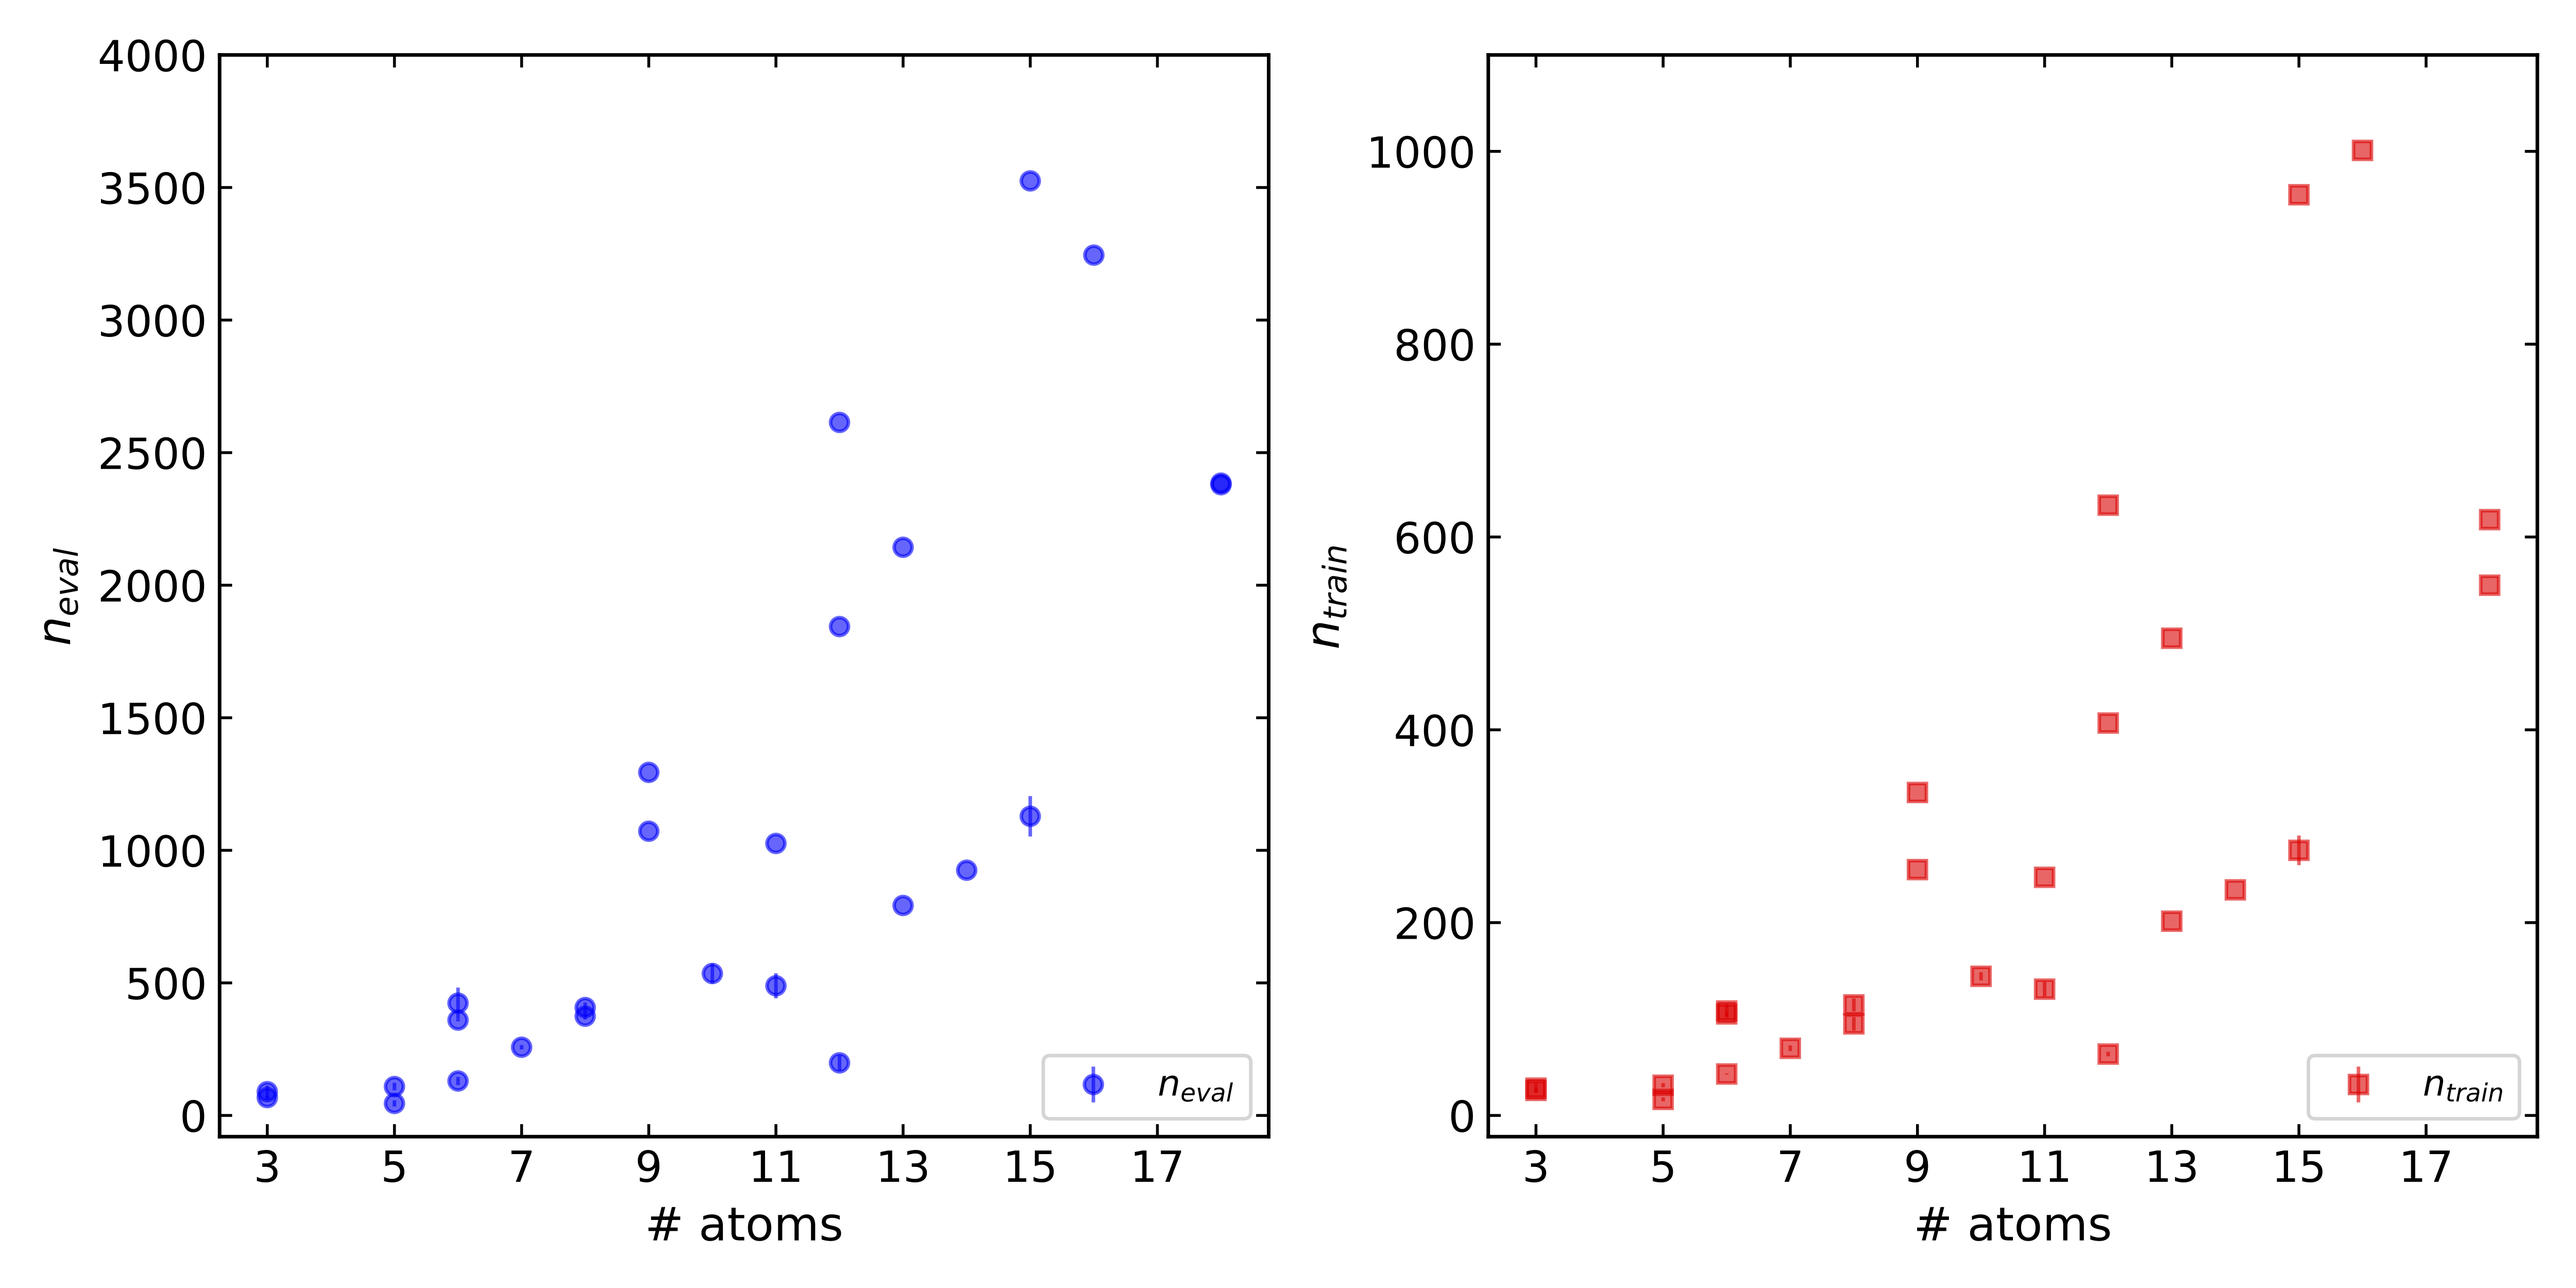
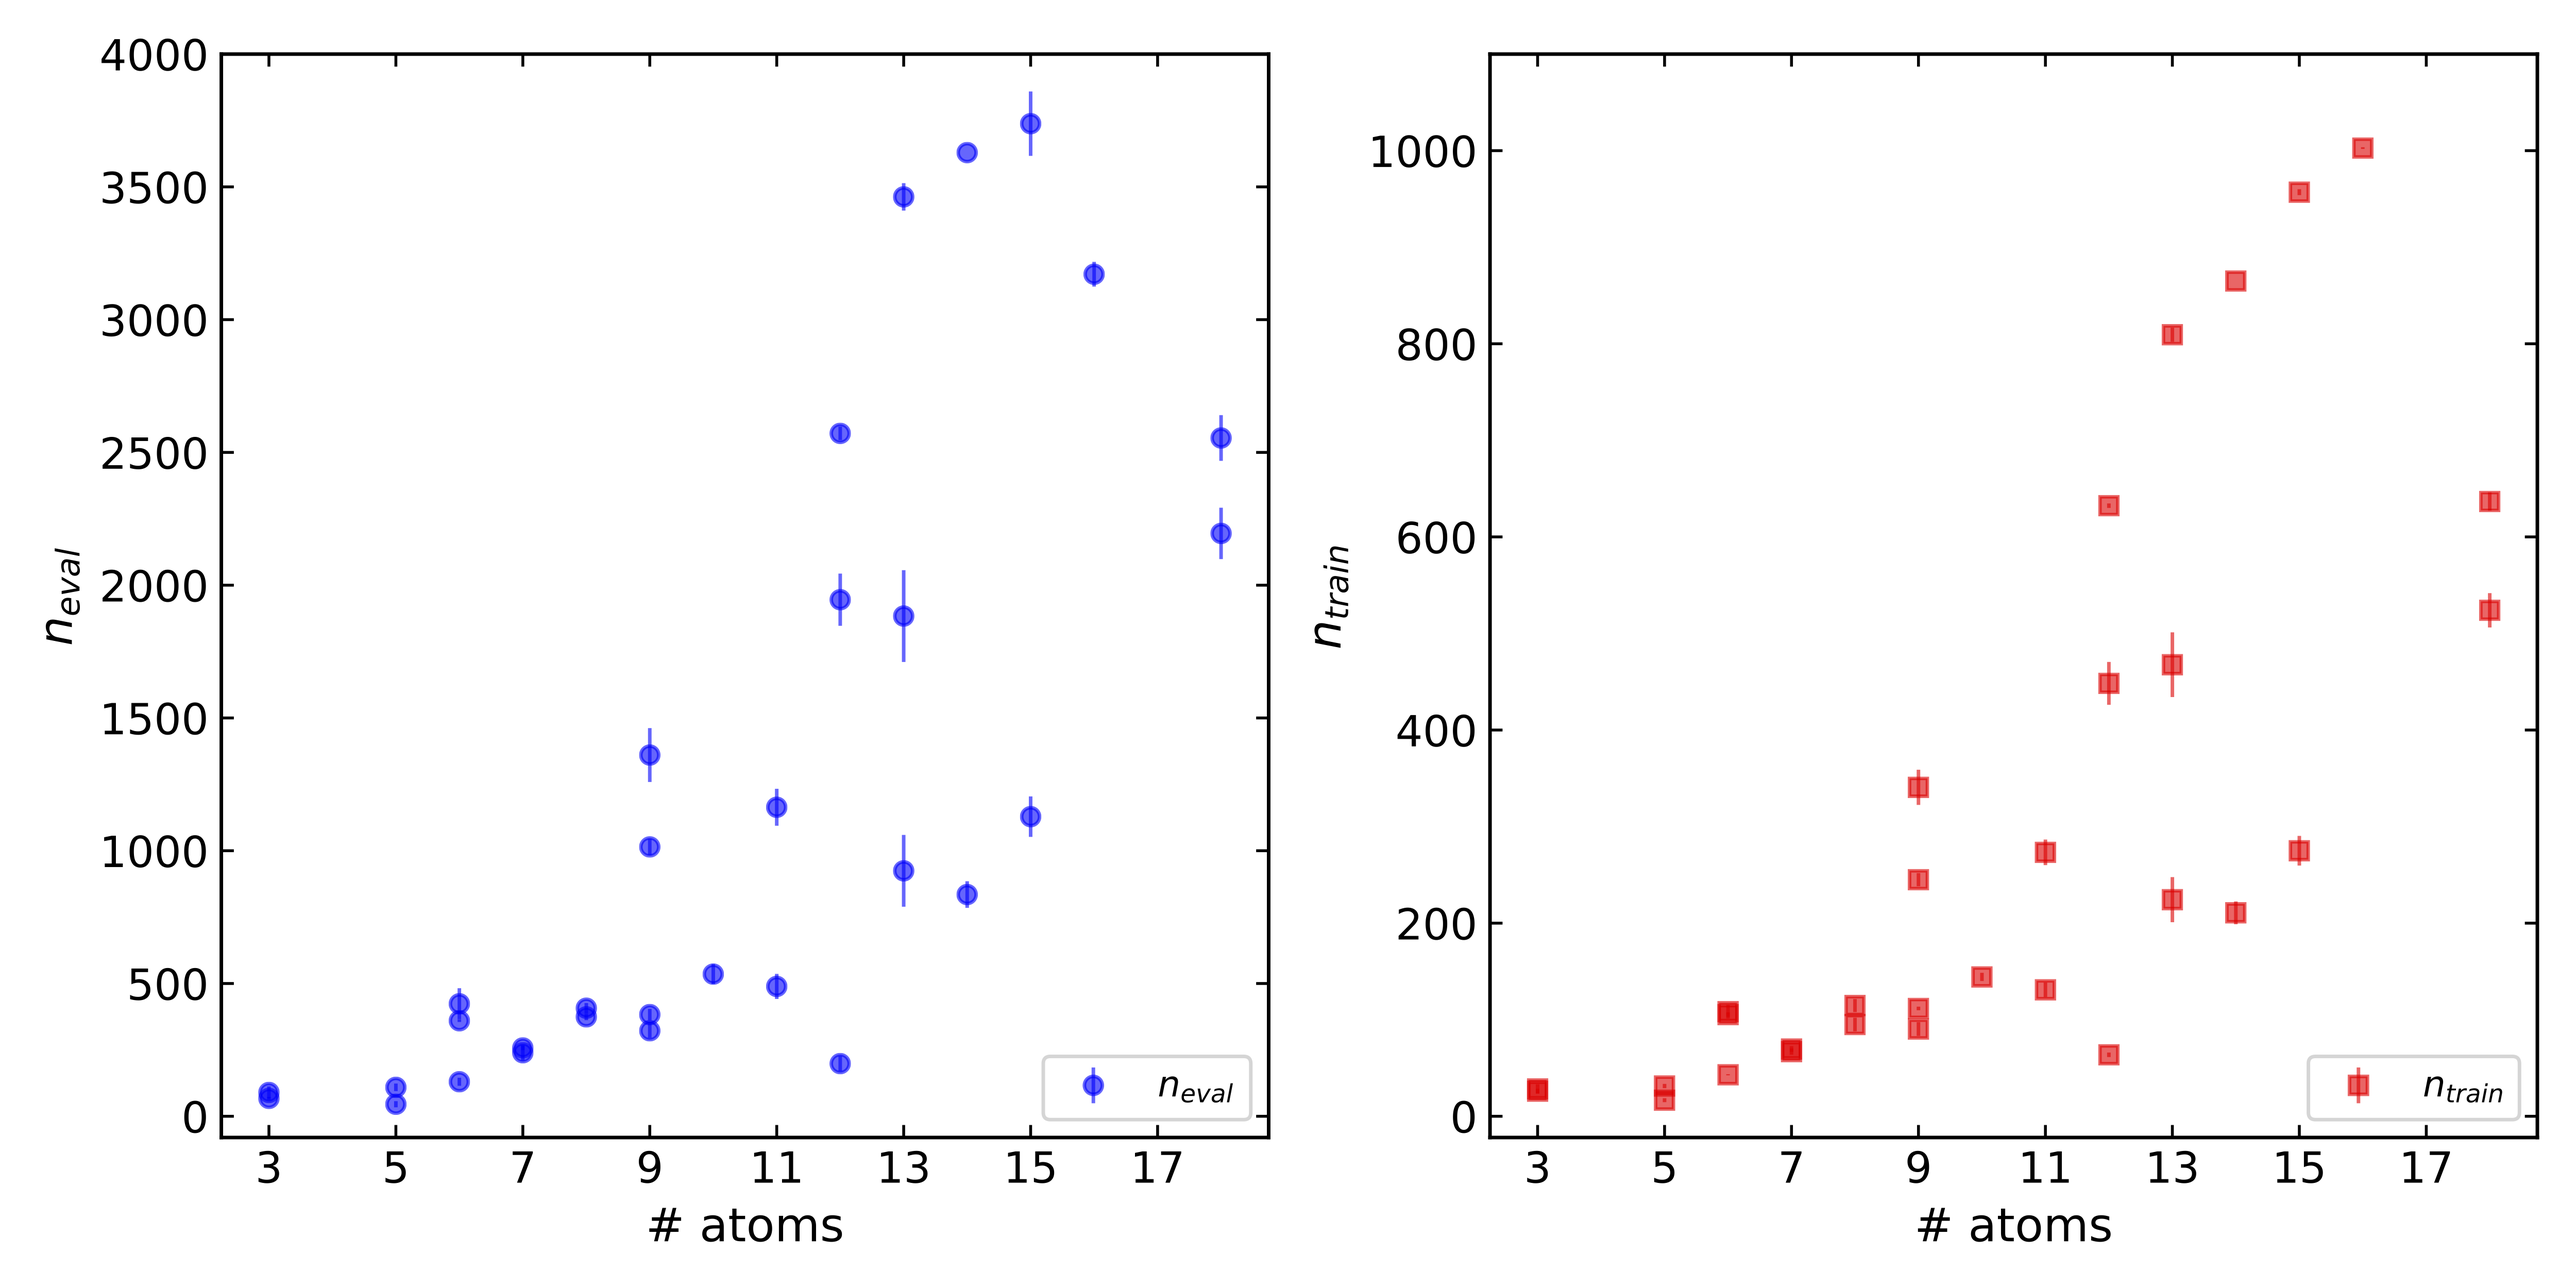
More data

diff --git a/examples/additional_examples/scalling/solvents/plot_solvent_scaling.py b/examples/additional_examples/scalling/solvents/plot_solvent_scaling.py
@@ -1,0 +1,122 @@
+import matplotlib.pyplot as plt
+import numpy as np
+from matplotlib.ticker import FormatStrFormatter
+plt.style.use('paper')
+
+
+def mean(list_arr):
+    return [np.average(arr) if len(arr) > 0 else -1000
+            for arr in list_arr]
+
+
+def error(list_arr):
+    return [np.std(arr)/np.sqrt(len(arr)-1) if len(arr) > 2 else 0
+            for arr in list_arr]
+
+
+if __name__ == '__main__':
+
+    n_atoms_list = [8, 10, 6, 12, 3, 5, 5, 18, 16, 15, 12, 11, 6, 9, 14, 6,
+                    12, 14, 7, 11, 13, 15, 13, 8, 9, 3, 18, 9, 13, 9, 10, 7]
+
+    n_evals = [
+        [433, 419, 369],      # 0
+        [609, 510, 487],
+        [100, 141, 149],
+        [229, 142, 224],
+        [80, 133, 56],
+        [62, 51, 23],
+        [130, 115, 82],       # 6
+        [2385, 2612, 2666],
+        [3245, 3085, 3183],
+        [3525, 3945, 3744],
+        [1844, 1850, 2142],    # 10
+        [1026, 1250, 1215],
+        [359, 352, 368],
+        [1427, 1161, 1493],
+        [3677, 3581, ],
+        [348, 539, 384],      # 15
+        [2614, 2526, 2575],
+        [925, 828, 752],
+        [273, 245, 254],
+        [503, 563, 401],
+        [2143, 1556, 1952],                   # 20
+        [980, 1233, 1172],
+        [840, 744, 1189],
+        [399, 359, 365],
+        [1072, 999, 972],
+        [57, 77, 68],
+        [2379, 2155, 2051],
+        [402, 407, 340],
+        [3551, 3464, 3372],
+        [315, 372, 279],
+        [],                 # 30
+        [292, 235, 191]
+    ]
+
+    n_train_configs = [
+        [125, 117, 102],
+        [147, 150, 136],
+        [44, 42, 43],
+        [68, 60, 63],
+        [24, 38, 23],
+        [20, 17, 13],      # 5
+        [34, 33, 27],
+        [618, 643, 649],
+        [1001, 1003, 1004],
+        [955, 963, 953],
+        [407, 455, 483],               # 10
+        [247, 289, 284],
+        [103, 103, 110],
+        [365, 305, 352],
+        [884, 846, ],
+        [95, 119, 111],
+        [633, 636, 628],
+        [234, 196, 202],
+        [71, 74, 64],
+        [137, 140, 116],
+        [495, 401, 507],
+        [250, 303, 272],
+        [210, 193, 270],
+        [109, 89, 87],
+        [255, 248, 232],
+        [23, 31, 24],
+        [550, 532, 490],
+        [113, 114, 108],
+        [802, 824, 802],
+        [87, 104, 80],
+        [],
+        [73, 66, 62]
+    ]
+
+    fig, (ax1, ax2) = plt.subplots(ncols=2, figsize=(10, 5))
+
+    evals_line = ax1.errorbar(n_atoms_list, mean(n_evals),
+                yerr=error(n_evals),
+                marker='o', lw=1, mfc='blue', ecolor='blue', alpha=0.6,
+                fmt='o', color='blue',
+                label='$n_{eval}$')
+
+    train_line = ax2.errorbar(n_atoms_list, mean(n_train_configs),
+                yerr=error(n_train_configs),
+                marker='s', lw=1, mfc='red', ecolor='red', alpha=0.6, fmt='o',
+                color='red',
+                label='$n_{train}$')
+
+    for ax in (ax1, ax2):
+        ax.xaxis.set_major_formatter(FormatStrFormatter('%.i'))
+
+    ax1.set_xlabel('# atoms')
+    ax1.set_ylabel('$n_{eval}$')
+    ax1.set_ylim(-0.02*4000, 4000)
+    ax1.set_xticks(list(range(min(n_atoms_list), max(n_atoms_list), 2)))
+    ax1.legend(loc='lower right')
+
+    ax2.set_xlabel('# atoms')
+    ax2.set_ylabel('$n_{train}$')
+    ax2.set_ylim(-0.02*1100, 1100)
+    ax2.set_xticks(list(range(min(n_atoms_list), max(n_atoms_list), 2)))
+    ax2.legend(loc='lower right')
+
+    plt.tight_layout()
+    plt.savefig('solvent_scaling.pdf')
